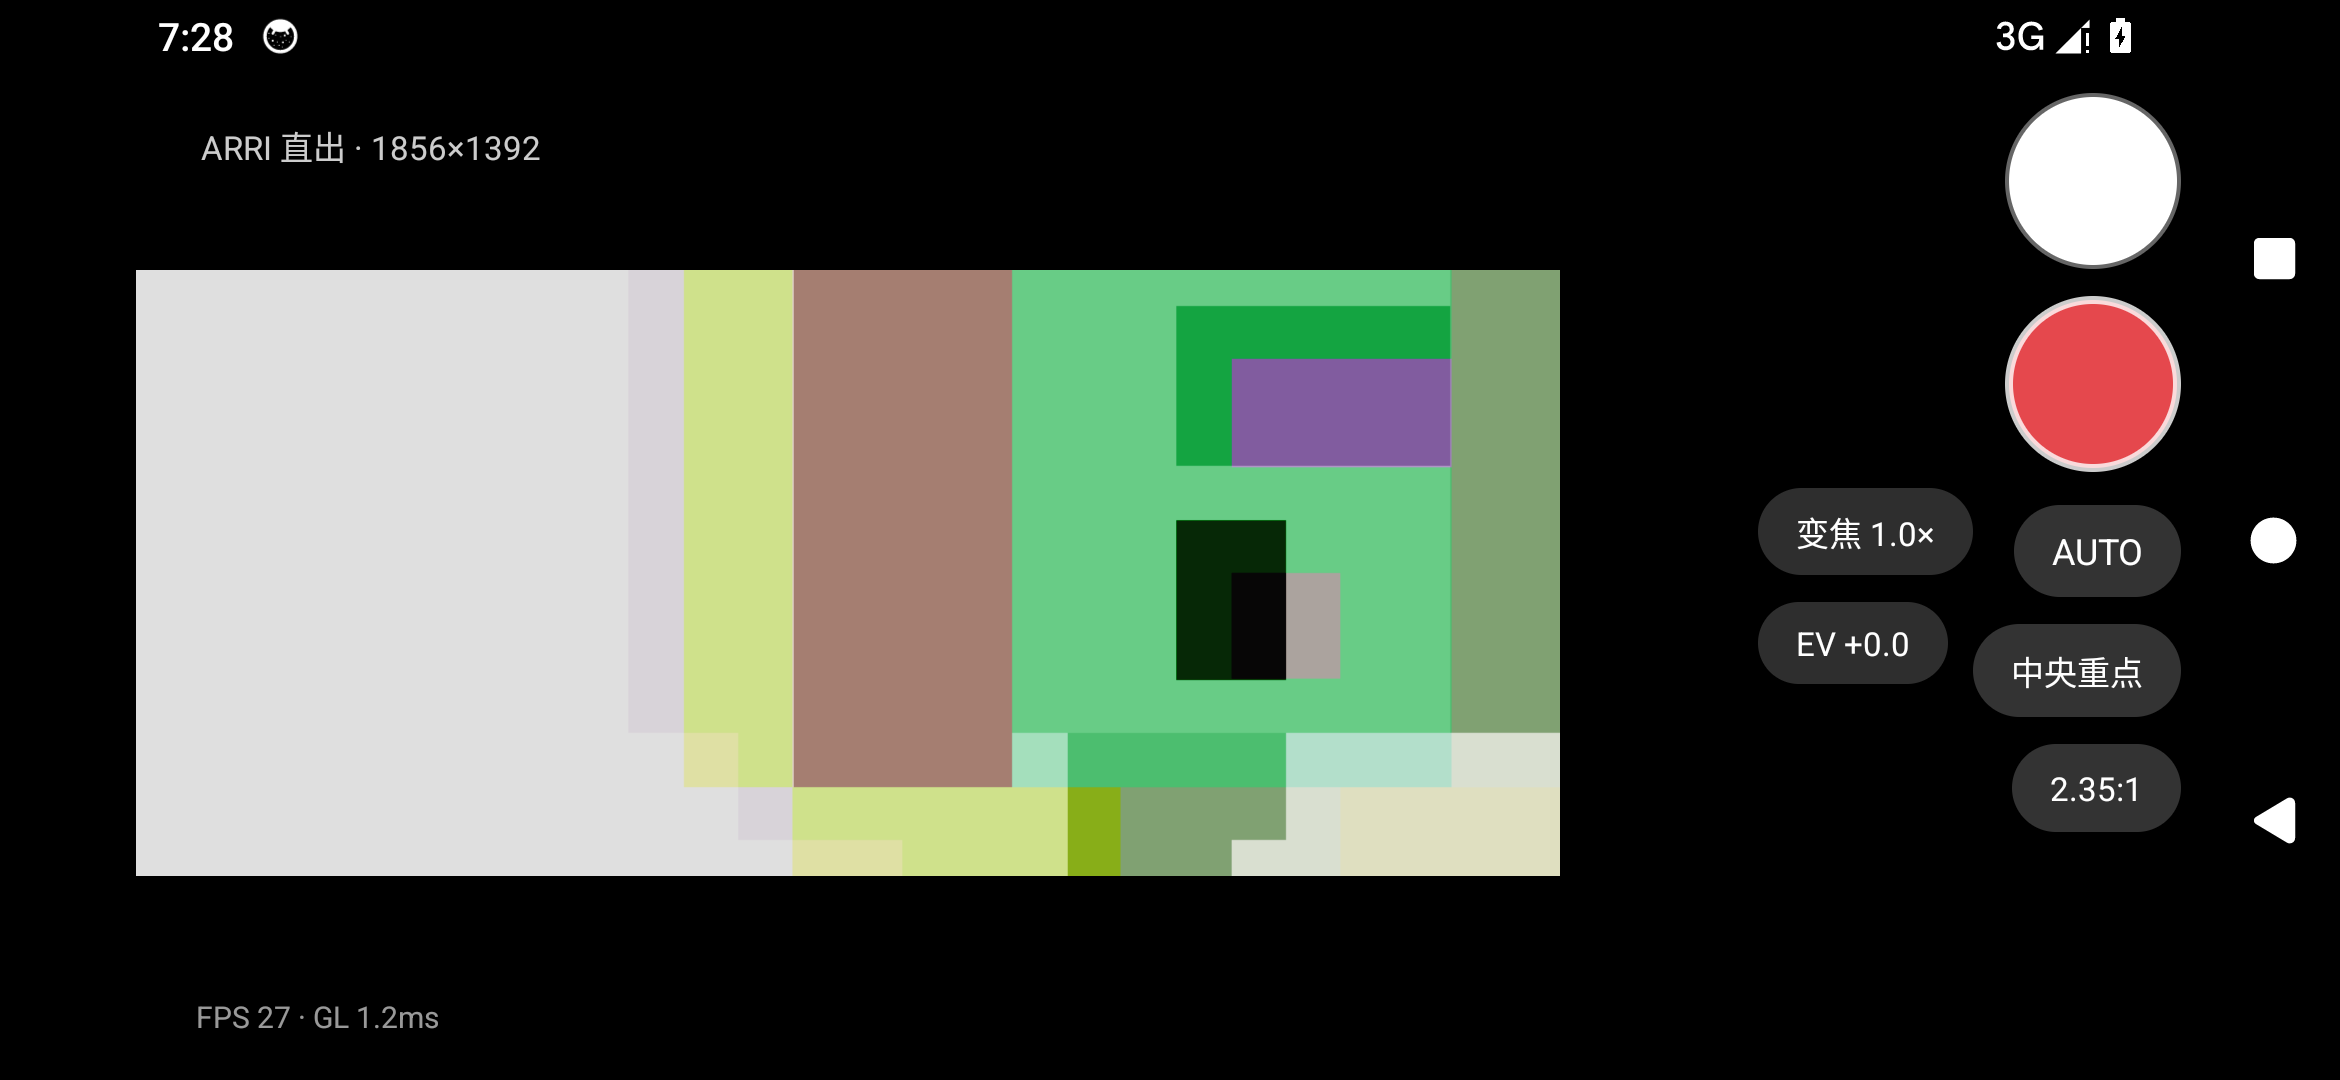
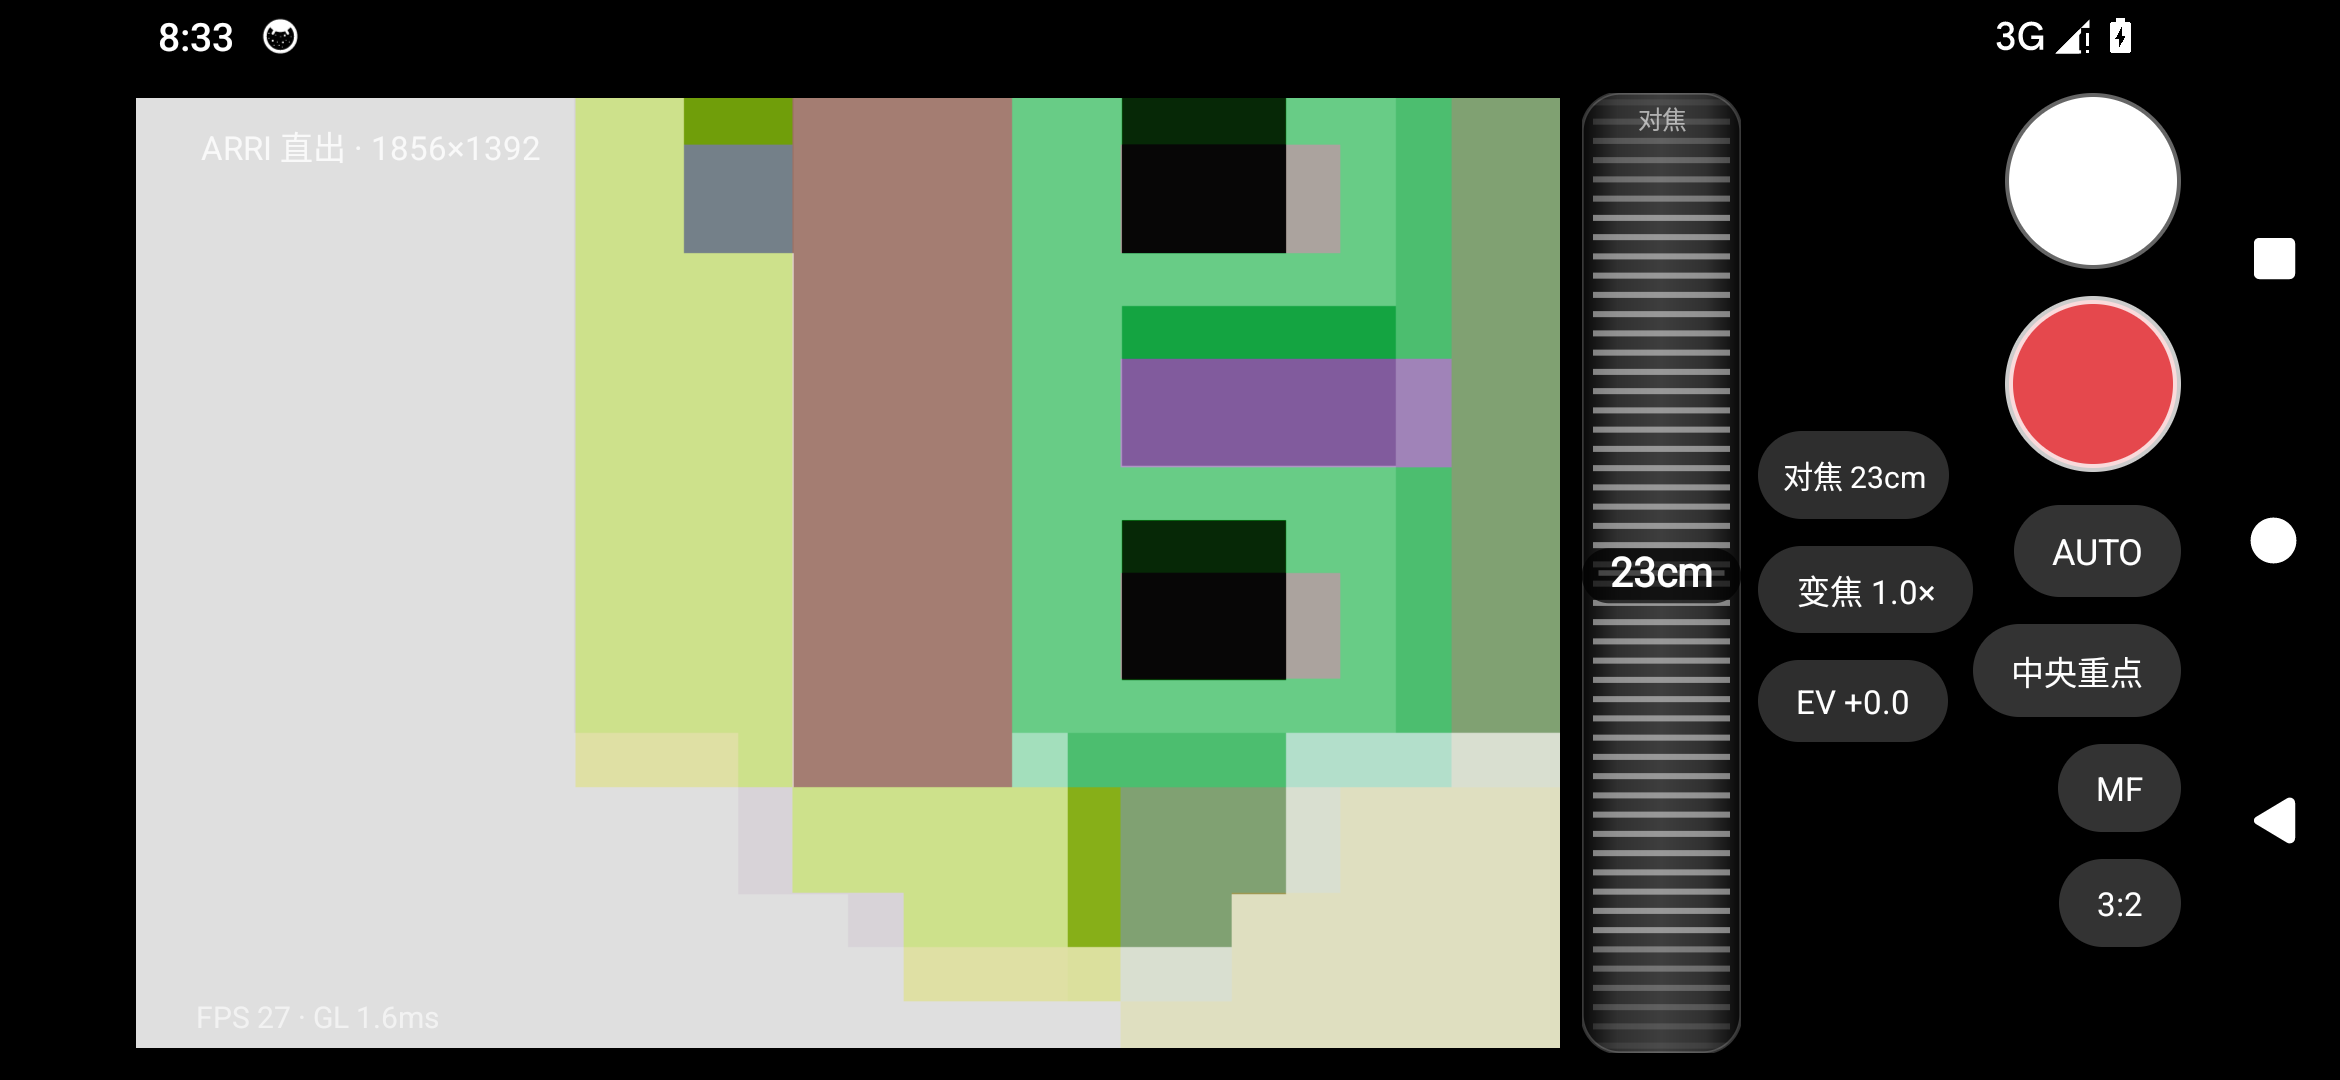
Lume: 加入 AF-S/AF-C/MF 对焦模式与手动对焦波轮

diff --git a/lume/app/src/main/java/com/magirri/lume/MainActivity.kt b/lume/app/src/main/java/com/magirri/lume/MainActivity.kt
@@ -48,6 +48,11 @@ class MainActivity : Activity() {
 
     private lateinit var ratioBtn: TextView
     private var splashLogo: ImageView? = null
+    private lateinit var focusBtn: TextView
+    private lateinit var mfBtn: TextView
+    private lateinit var focusWheel: WheelView
+    private var focusIndex = 1          // 默认 AF-C
+    private var focusDiopters = 0f
 
     /** 当前画幅索引：0=3:2, 1=16:9, 2=2.35:1 */
 
@@ -359,7 +364,15 @@ class MainActivity : Activity() {
                 updateWheelButtons()
             }
         }
-        wheels = listOf(zoomDial, evDial, shutterWheel, isoWheel)
+        focusWheel = WheelView(this, "对焦").apply {
+            format = { v -> focusText(focusDioptersFromValue(v)) }
+            onChange = { v ->
+                focusDiopters = focusDioptersFromValue(v)
+                camera.setFocusDiopters(focusDiopters)
+                updateWheelButtons()
+            }
+        }
+        wheels = listOf(zoomDial, evDial, shutterWheel, isoWheel, focusWheel)
         wheels.forEach { w ->
             w.visibility = View.GONE
             wheelStrip.addView(
@@ -451,6 +464,26 @@ class MainActivity : Activity() {
             ).apply { topMargin = dp(10) }
         )
 
+        // 对焦模式：AF-S / AF-C / MF
+        focusBtn = TextView(this).apply {
+            text = FOCUS_NAMES[focusIndex]
+            setTextColor(Color.WHITE)
+            textSize = 12f
+            gravity = Gravity.CENTER
+            setPadding(dp(14), dp(8), dp(14), dp(8))
+            background = pill(0x33FFFFFF)
+            setOnClickListener {
+                focusIndex = (focusIndex + 1) % FOCUS_MODES.size
+                applyFocusMode()
+            }
+        }
+        camCol.addView(
+            focusBtn,
+            LinearLayout.LayoutParams(
+                ViewGroup.LayoutParams.WRAP_CONTENT, ViewGroup.LayoutParams.WRAP_CONTENT
+            ).apply { topMargin = dp(10) }
+        )
+
         // 画幅：3:2 / 16:9 / 2.35:1，循环切换
         ratioBtn = TextView(this).apply {
             text = RATIO_NAMES[ratioIndex]
@@ -478,6 +511,18 @@ class MainActivity : Activity() {
             orientation = LinearLayout.VERTICAL
             gravity = Gravity.START
         }
+        mfBtn = wheelButton("对焦", "∞", MF).apply {
+            textSize = 11f
+            setPadding(dp(9), dp(8), dp(9), dp(8))
+        }
+        mfBtn.visibility = View.GONE          // 只有 MF 档才出现
+        valueCol.addView(
+            mfBtn,
+            LinearLayout.LayoutParams(
+                ViewGroup.LayoutParams.WRAP_CONTENT, ViewGroup.LayoutParams.WRAP_CONTENT
+            ).apply { topMargin = dp(10) }
+        )
+
         zoomBtn = wheelButton("变焦", "1.0×", ZOOM)
         evBtn = wheelButton("EV", "+0.0", EV)
         shutterBtn = wheelButton("快门", "1/125", SHUTTER)
@@ -522,6 +567,7 @@ class MainActivity : Activity() {
             setTextColor(Color.WHITE)
             textSize = 12f
             gravity = Gravity.CENTER
+            isSingleLine = true          // 「对焦 21cm」这类长文案不折行
             setPadding(dp(14), dp(7), dp(14), dp(7))
             // 按钮自带灰色圆角胶囊；面板底是纯黑，两者区分开
             background = pill(0x2EFFFFFF)
@@ -541,7 +587,8 @@ class MainActivity : Activity() {
             ZOOM -> zoomDial
             EV -> evDial
             SHUTTER -> shutterWheel
-            else -> isoWheel
+            ISO -> isoWheel
+            else -> focusWheel
         }
         if (!w.isEnabled) return
         wheels.forEach { it.visibility = if (it === w) View.VISIBLE else View.GONE }
@@ -569,6 +616,8 @@ class MainActivity : Activity() {
         } else {
             camera.manualIso
         }
+        mfBtn.text = "对焦 " + focusText(focusDiopters)
+
         for ((i, b) in listOf(zoomBtn, evBtn, shutterBtn, isoBtn).withIndex()) {
             b.background = pill(if (i == openWheelKind) 0x59FFFFFF else 0x2EFFFFFF)
         }
@@ -613,6 +662,33 @@ class MainActivity : Activity() {
         // 画面有效宽高比 = target，交给取景器做等比适配
         preview.cameraAspect = if (sideways) 1f / target else target
         preview.requestRender()
+    }
+
+    /** 切对焦模式：相机侧改 AF 模式，UI 侧决定要不要露出「对焦」按钮 */
+    private fun applyFocusMode() {
+        // 不支持的机器跳过 MF
+        if (FOCUS_MODES[focusIndex] == CameraEngine.Focus.MF &&
+            !camera.controls.hasManualFocus
+        ) {
+            focusIndex = 0
+        }
+        val f = FOCUS_MODES[focusIndex]
+        camera.setFocusMode(f)
+        focusBtn.text = FOCUS_NAMES[focusIndex]
+        mfBtn.visibility = if (f == CameraEngine.Focus.MF) View.VISIBLE else View.GONE
+        if (openWheelKind == MF && f != CameraEngine.Focus.MF) closeWheel()
+        updateWheelButtons()
+    }
+
+    /** 0..1 → 屈光度（0 = 无穷远，越大越近） */
+    private fun focusDioptersFromValue(v: Float): Float =
+        v * camera.controls.focusMaxDiopters
+
+    /** 屈光度 → 人看的距离 */
+    private fun focusText(d: Float): String {
+        if (d < 0.02f) return "∞"
+        val m = 1f / d
+        return if (m >= 1f) String.format("%.1fm", m) else String.format("%.0fcm", m * 100)
     }
 
     /** 曝光波轮在 AUTO/S 档调的是 EV，M 档是只读指示器，不接这个回调 */
@@ -705,6 +781,7 @@ class MainActivity : Activity() {
             EV -> evDial
             SHUTTER -> shutterWheel
             ISO -> isoWheel
+            MF -> focusWheel
             else -> null
         }
         if (openWheel != null && !openWheel.isEnabled) closeWheel()
@@ -1089,6 +1166,14 @@ class MainActivity : Activity() {
 
         private val RATIO_NAMES = listOf("3:2", "16:9", "2.35:1")
 
+        /** 对焦模式：AF-S 单次 / AF-C 连续 / MF 手动 */
+        private val FOCUS_MODES = listOf(
+            CameraEngine.Focus.AF_S,
+            CameraEngine.Focus.AF_C,
+            CameraEngine.Focus.MF,
+        )
+        private val FOCUS_NAMES = listOf("AF-S", "AF-C", "MF")
+
 
 
         private const val ZOOM = 0
@@ -1098,6 +1183,7 @@ class MainActivity : Activity() {
         private const val SHUTTER = 2
 
         private const val ISO = 3
+        private const val MF = 4
 
 
 

diff --git a/lume/app/src/main/java/com/magirri/lume/CameraEngine.kt b/lume/app/src/main/java/com/magirri/lume/CameraEngine.kt
@@ -48,11 +48,17 @@ class CameraEngine(private val context: Context) {
         val isoMax: Int = 3200,
         val shutterMinNs: Long = 1_000_000_000L / 8000,
         val shutterMaxNs: Long = 1_000_000_000L / 8,
+        /** 最近对焦距离（屈光度），0 = 只能对无穷远 */
+        val focusMaxDiopters: Float = 0f,
     ) {
         val hasZoom: Boolean get() = maxZoom > 1.01f
         val hasEv: Boolean get() = evMax > evMin
         val hasManual: Boolean get() = isoMax > isoMin
+        val hasManualFocus: Boolean get() = focusMaxDiopters > 0.05f
     }
+
+    /** 对焦模式：单次 / 连续 / 手动 */
+    enum class Focus { AF_S, AF_C, MF }
 
     /** 曝光模式：S 快门优先 / AUTO 全自动 / M 全手动 */
     enum class Mode { S, AUTO, M }
@@ -80,6 +86,12 @@ class CameraEngine(private val context: Context) {
 
     /** 当前变焦倍数（1.0 = 不裁） */
     var zoom = 1f
+        private set
+
+    /** 对焦模式与手动焦距（屈光度，0 = 无穷远） */
+    var focusMode = Focus.AF_C
+        private set
+    var focusDiopters = 0f
         private set
 
     /** 当前曝光补偿档位（单位是 evStep） */
@@ -165,6 +177,9 @@ class CameraEngine(private val context: Context) {
         // 曝光补偿：范围以「档」为单位，步长单独给
         val evRange = chars.get(CameraCharacteristics.CONTROL_AE_COMPENSATION_RANGE)
         val evStep = chars.get(CameraCharacteristics.CONTROL_AE_COMPENSATION_STEP)?.toFloat() ?: 0f
+        // 手动对焦：LENS_INFO_MINIMUM_FOCUS_DISTANCE 是最近合焦距离（屈光度），
+        // 0 表示固定焦点镜头（只能对无穷远）
+        val focusMax = chars.get(CameraCharacteristics.LENS_INFO_MINIMUM_FOCUS_DISTANCE) ?: 0f
         // 手动曝光用的范围（S 档拨快门、M 档拨 ISO）
         val isoRange = chars.get(CameraCharacteristics.SENSOR_INFO_SENSITIVITY_RANGE)
         val shutterRange = chars.get(CameraCharacteristics.SENSOR_INFO_EXPOSURE_TIME_RANGE)
@@ -177,12 +192,14 @@ class CameraEngine(private val context: Context) {
             isoMax = isoRange?.upper ?: 3200,
             shutterMinNs = shutterRange?.lower ?: (1_000_000_000L / 8000),
             shutterMaxNs = shutterRange?.upper ?: (1_000_000_000L / 8),
+            focusMaxDiopters = focusMax,
         )
         Log.i(
             TAG,
             "控制能力 zoom=${controls.maxZoom} ev=${controls.evMin}..${controls.evMax} " +
                     "iso=${controls.isoMin}..${controls.isoMax} " +
-                    "shutter=${controls.shutterMinNs}..${controls.shutterMaxNs}ns"
+                    "shutter=${controls.shutterMinNs}..${controls.shutterMaxNs}ns " +
+                    "focus=0..${controls.focusMaxDiopters}D"
         )
 
         val previewSize = pickSize(
@@ -306,12 +323,49 @@ class CameraEngine(private val context: Context) {
             addTarget(target)
             // 录制流和预览同一条请求：一次采集喂两个 surface
             recordSurface?.let { addTarget(it) }
-            set(
-                CaptureRequest.CONTROL_AF_MODE,
-                CaptureRequest.CONTROL_AF_MODE_CONTINUOUS_PICTURE
-            )
+            applyFocus(this)
             applyZoomAndEv(this)
         }.build()
+
+    /** 对焦模式：AF-S 单次、AF-C 连续、MF 手动锁焦 */
+    private fun applyFocus(builder: CaptureRequest.Builder) {
+        when (focusMode) {
+            Focus.AF_S -> {
+                builder.set(
+                    CaptureRequest.CONTROL_AF_MODE,
+                    CaptureRequest.CONTROL_AF_MODE_AUTO
+                )
+            }
+            Focus.AF_C -> {
+                builder.set(
+                    CaptureRequest.CONTROL_AF_MODE,
+                    CaptureRequest.CONTROL_AF_MODE_CONTINUOUS_PICTURE
+                )
+            }
+            Focus.MF -> {
+                builder.set(CaptureRequest.CONTROL_AF_MODE, CaptureRequest.CONTROL_AF_MODE_OFF)
+                if (controls.hasManualFocus) {
+                    builder.set(
+                        CaptureRequest.LENS_FOCUS_DISTANCE,
+                        focusDiopters.coerceIn(0f, controls.focusMaxDiopters)
+                    )
+                }
+            }
+        }
+    }
+
+    /** 切对焦模式 */
+    fun setFocusMode(f: Focus) {
+        if (f == focusMode) return
+        focusMode = f
+        reapply()
+    }
+
+    /** 手动对焦：屈光度，0 = 无穷远，越大越近 */
+    fun setFocusDiopters(d: Float) {
+        focusDiopters = d.coerceIn(0f, controls.focusMaxDiopters)
+        if (focusMode == Focus.MF) reapply()
+    }
 
     /** 把变焦 / 曝光（含 S/M 手动档）写进任意请求 */
     private fun applyZoomAndEv(builder: CaptureRequest.Builder) {
@@ -478,10 +532,7 @@ class CameraEngine(private val context: Context) {
         try {
             val req = cam.createCaptureRequest(CameraDevice.TEMPLATE_STILL_CAPTURE).apply {
                 addTarget(readerSurface)
-                set(
-                    CaptureRequest.CONTROL_AF_MODE,
-                    CaptureRequest.CONTROL_AF_MODE_CONTINUOUS_PICTURE
-                )
+                applyFocus(this)
                 applyZoomAndEv(this)
             }.build()
             s.capture(req, null, handler)

diff --git a/lume/README.md b/lume/README.md
@@ -259,3 +259,17 @@ lume/
 - 照片按同一倍率居中裁切（2× + 3:2 → 927×618），构图和取景器一致。
 - 录像走同一个 `drawFrame`，自动跟着变焦。
 - 代价：预览在高倍率下是放大裁切，会变软；照片仍从全画幅裁，画质不受影响。
+
+## 对焦
+
+模式键下面的 `AF-S / AF-C / MF` 按钮循环切（在测光与画幅之间）：
+
+| 模式 | 相机侧 |
+|---|---|
+| AF-S | `CONTROL_AF_MODE_AUTO` 单次 |
+| AF-C | `CONTROL_AF_MODE_CONTINUOUS_PICTURE` 连续 |
+| MF | `CONTROL_AF_MODE_OFF` + `LENS_FOCUS_DISTANCE` |
+
+MF 档时，**变焦按钮上方**多出「对焦」按钮，点开是同款细长波轮。
+波轮按**屈光度**线性映射（0 = ∞，越大越近），显示成 `∞ / 1.2m / 23cm`。
+最大屈光度取 `LENS_INFO_MINIMUM_FOCUS_DISTANCE`，为 0 的机器（定焦模组）会自动跳过 MF。
